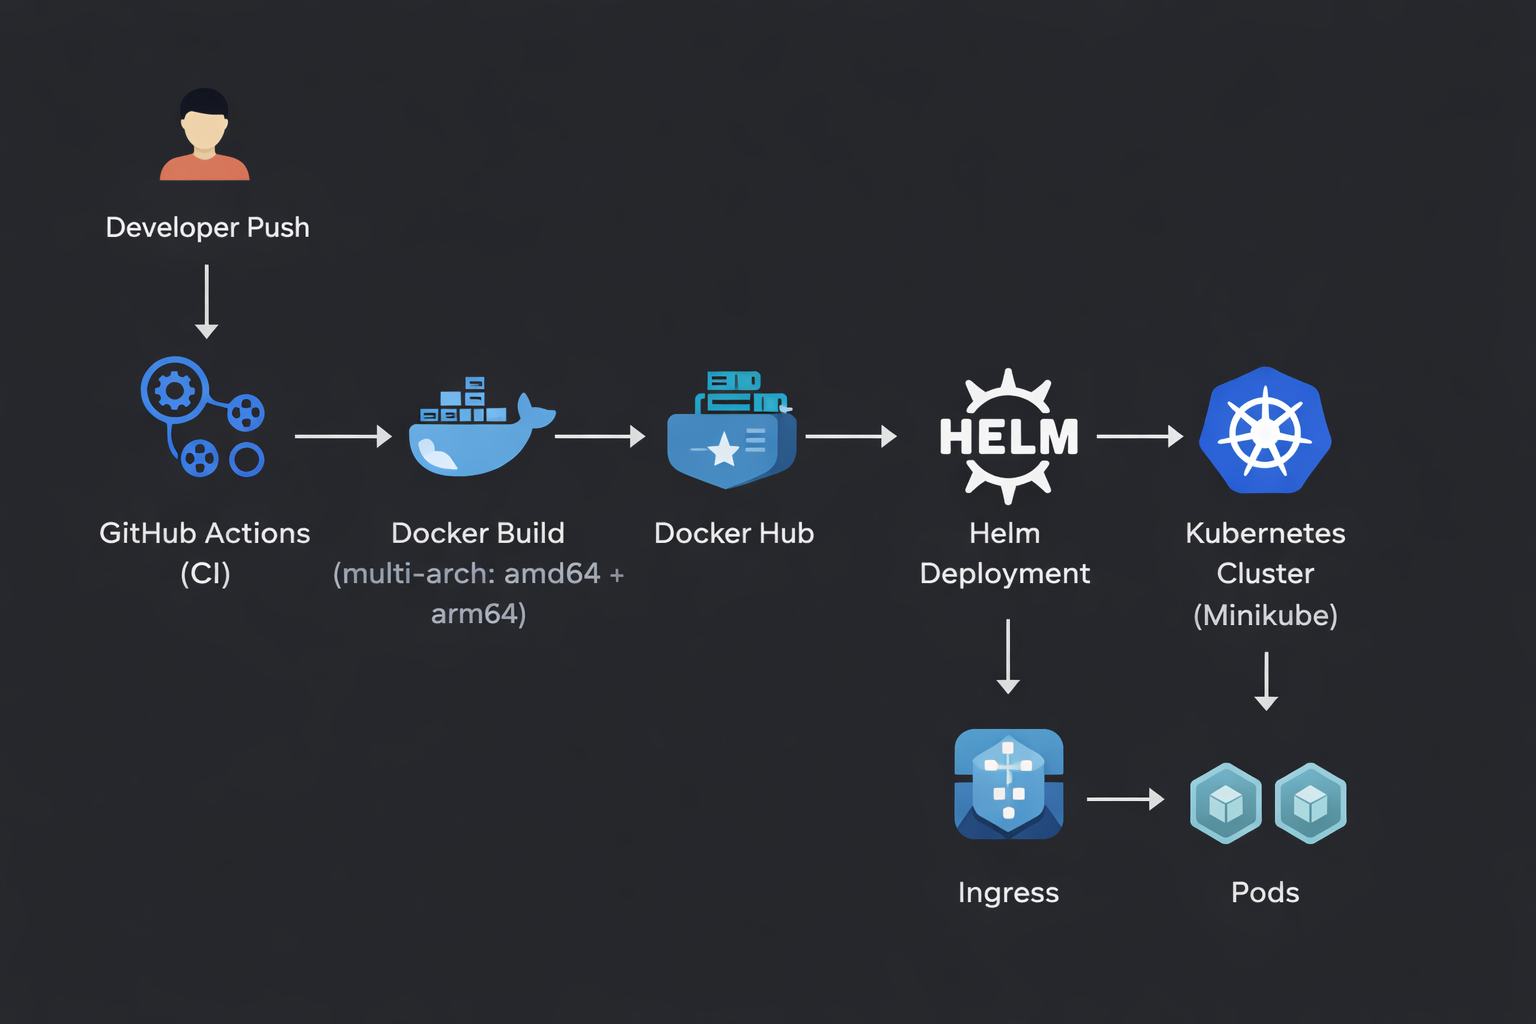
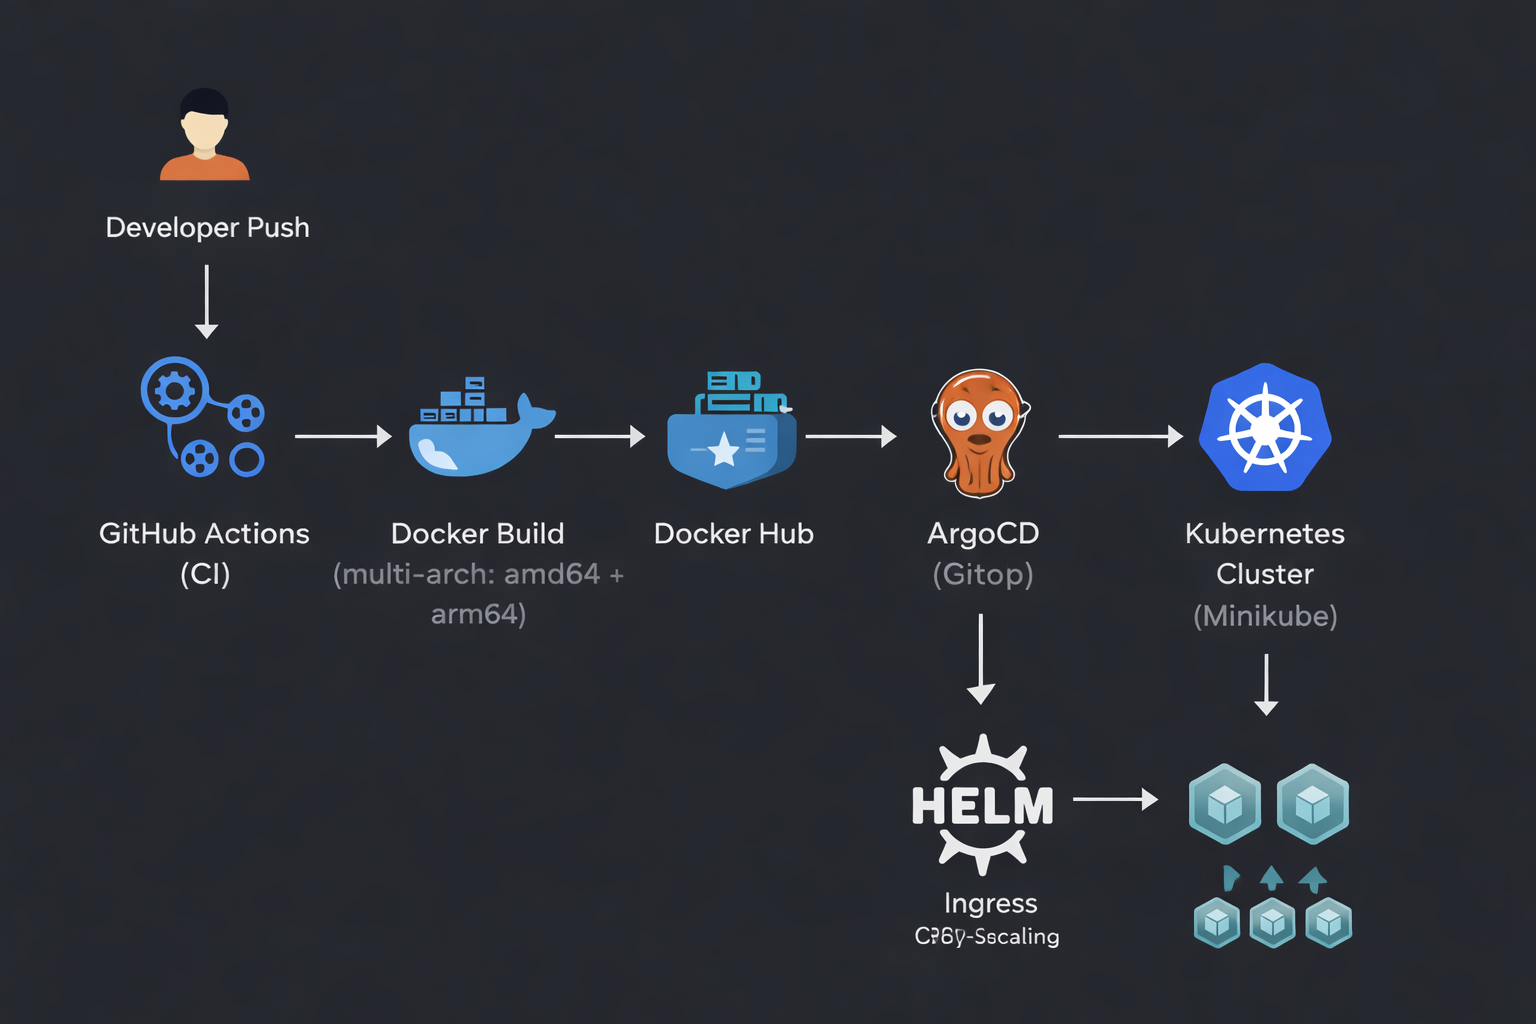
Update README file

diff --git a/README.md b/README.md
@@ -1,159 +1,202 @@
 # 🚀 Cloud-Native User Service
 
-A production-ready cloud-native microservice built with Node.js, Docker, Kubernetes, Helm, and CI/CD.
+Production-style cloud-native microservice built with **Node.js, Docker, Kubernetes, Helm, Terraform, and GitOps (ArgoCD)**.
 
-This project demonstrates modern DevOps practices including:
+This project demonstrates a complete DevOps lifecycle including CI automation, deterministic container versioning, Infrastructure as Code, and GitOps-based continuous deployment.
 
-- Containerization
-- Multi-architecture Docker builds
-- Kubernetes deployment
-- Autoscaling (HPA)
-- Helm packaging
-- CI pipeline with Docker Hub publishing
+---
 
 ## 🧱 Architecture Overview
+
 <p align="center">
-  <img src="docs/architecture.png" width="800"/>
+  <img src="docs/architecture.png" width="900"/>
 </p>
+
+---
+
+## 🔄 CI/CD & GitOps Flow
+
+```text
+Developer Push
+      ↓
+GitHub Actions (CI)
+  - Multi-arch Docker build (amd64 + arm64)
+  - Tag image with commit SHA
+  - Push image to Docker Hub
+      ↓
+GitHub Actions (CD)
+  - Update image tag in values-prod.yaml
+  - Commit back to repository
+      ↓
+ArgoCD (GitOps)
+  - Detect Git change
+  - Auto-sync & self-heal
+      ↓
+Helm
+      ↓
+Kubernetes Cluster
+  - Rolling update
+  - HPA scaling
+```
+
+No manual deployment steps are required.
+
+---
 
 ## 🛠 Tech Stack
 
 - Node.js (Express)
-- Docker (multi-stage, multi-arch)
+- Docker (multi-stage, multi-architecture builds)
 - Kubernetes (Minikube)
 - Helm
-- Horizontal Pod Autoscaler (HPA)
-- ConfigMap & Secret
+- Terraform
+- ArgoCD (GitOps)
 - GitHub Actions
 - Docker Hub
 
+---
+
 ## 📦 Project Structure
+
 ```text
 cloud-native-user-service/
 ├── app/                     # Node.js application
-├── user-service-chart/      # Helm chart (deployment source of truth)
-├── legacy/                  # Raw Kubernetes manifests (pre-Helm)
-├── .github/workflows/       # CI pipeline
+├── user-service-chart/      # Helm chart (templated K8s manifests)
+├── terraform/               # Infrastructure as Code (Helm via Terraform)
+├── legacy/                  # Initial raw K8s manifests
+├── docs/                    # Architecture diagrams
+├── .github/workflows/       # CI/CD pipelines
 └── README.md
 ```
 
+---
+
 ## 🐳 Docker
 
-- Multi-stage Docker build
-- Multi-architecture support (linux/amd64, linux/arm64)
-- Automatic image push to Docker Hub
-- Image tagging strategy:
-    - latest
-    - short commit SHA
+- Multi-stage build
+- Multi-architecture support (`linux/amd64`, `linux/arm64`)
+- Commit SHA image tagging
+- Automated image publishing to Docker Hub
 
 Docker Hub repository:
-mujagicamer/cloud-native-user-service
+
+`mujagicamer/cloud-native-user-service`
+
+---
 
 ## ☸ Kubernetes Features
 
 - Deployment with rolling updates
 - Service (ClusterIP)
-- Ingress (host-based routing)
-- Liveness & Readiness probes
+- NGINX Ingress
+- Liveness & readiness probes
 - Resource requests & limits
 - Horizontal Pod Autoscaler (CPU-based)
-- ConfigMap (non-sensitive config)
-- Secret (sensitive config)
+- ConfigMap & Secret configuration
+- Zero-downtime updates
 
-## 📦 Helm Deployment
+---
 
-All Kubernetes resources are managed via **Helm**.
+## 📦 Helm
 
-#### Install
+Application is packaged as a Helm chart with:
+
+- Templated Kubernetes manifests
+- Environment-based configuration (DEV / PROD)
+- Version-controlled deployment strategy
+
+Example commands:
+
 ```bash
 helm install user-service ./user-service-chart
-```
-#### Upgrade
-```bash
 helm upgrade user-service ./user-service-chart
-```
-#### Rollback
-```bash
 helm rollback user-service <revision>
 ```
-#### View Release History
+
+---
+
+## 🏗 Terraform
+
+Terraform manages Helm releases and environment selection:
+
 ```bash
-helm history user-service
+terraform apply -var="env=prod" -var="image_tag=<commit-sha>"
 ```
 
-## 🔁 CI Pipeline
+Features:
 
-On every push:
-1. Checkout repository
-2. Build Docker image
-3. Tag with:
-    • latest
-    • short commit SHA
-4. Push to Docker Hub
+- Environment variable-based configuration
+- Dynamic image tag injection
+- Declarative infrastructure management
 
-Multi-architecture builds ensure compatibility with:
-- AMD64 (GitHub runner)
-- ARM64 (Apple Silicon / Minikube)
+In production, Terraform state would typically be stored in a remote backend (e.g., S3 + DynamoDB locking).
 
-## 🌐 Local Access
+---
 
-After deployment:
-- http://user.test/
-- http://user.test/users
+## 🔁 GitOps (ArgoCD)
 
-Ingress uses host-based routing.
+ArgoCD continuously monitors the repository and:
 
-## 📈 Autoscaling
+- Detects configuration changes
+- Automatically syncs cluster state
+- Ensures self-healing
+- Prunes obsolete resources
 
-HPA automatically scales pods based on CPU utilization.
+Git is the single source of truth.
 
-Check status:
+---
+
+## 🌐 Local Development
+
+### Start environment (after reboot)
+
 ```bash
-kubectl get hpa
+colima start
+minikube start --driver=docker
+minikube service ingress-nginx-controller -n ingress-nginx
 ```
-## 🔐 Configuration Management
 
-Environment configuration is managed via:
-- ConfigMap → APP_ENV, PORT
-- Secret → DB_PASSWORD
+### Run application locally (without Kubernetes)
 
-Follows 12-factor app principles.
-
-## 🧪 Local Development
-
-### Run locally:
 ```bash
 cd app
 npm install
 npm start
 ```
-Build Docker image:
-```bash
-docker build -t user-service:local .
-```
-## 🗺 Project Evolution
 
-Initial deployment used raw Kubernetes manifests.
+---
 
-Deployment is now fully managed via Helm.
+## 🎯 Design Decisions
 
-Legacy manifests are preserved in the legacy/ folder.
+### Why GitOps?
+To ensure the cluster state always reflects the repository state. No manual deployments are required.
 
-## 🚀 Upcoming Improvements
+### Why SHA-based image tagging?
+To guarantee deterministic deployments and enable safe rollbacks.
 
-- Helm versioning strategy
-- Dev/Prod values separation
-- Terraform (Infrastructure as Code)
-- GitOps (ArgoCD)
-- Security scanning (Trivy)
-- Advanced CI/CD enhancements
+### Why Helm?
+To manage Kubernetes resources as reusable, templated packages.
 
-## 🎯 Purpose
+### Why Terraform?
+To demonstrate Infrastructure as Code and environment-based orchestration.
 
-This project demonstrates:
-- Cloud-native architecture
-- Kubernetes operations
-- CI/CD automation
-- Helm-based release management
-- Multi-architecture container builds
-- Production deployment patterns
+---
+
+## 🚀 What This Project Demonstrates
+
+- End-to-end CI/CD automation
+- GitOps workflow with ArgoCD
+- Multi-environment configuration management
+- Deterministic versioned deployments
+- Kubernetes operational patterns
+- Infrastructure as Code best practices
+- Production-style deployment strategy
+
+---
+
+## 🔮 Future Improvements
+
+- Container image security scanning (Trivy)
+- Remote Terraform backend
+- Observability integration (Prometheus/Grafana)
+- Cloud deployment (EKS / GKE)
